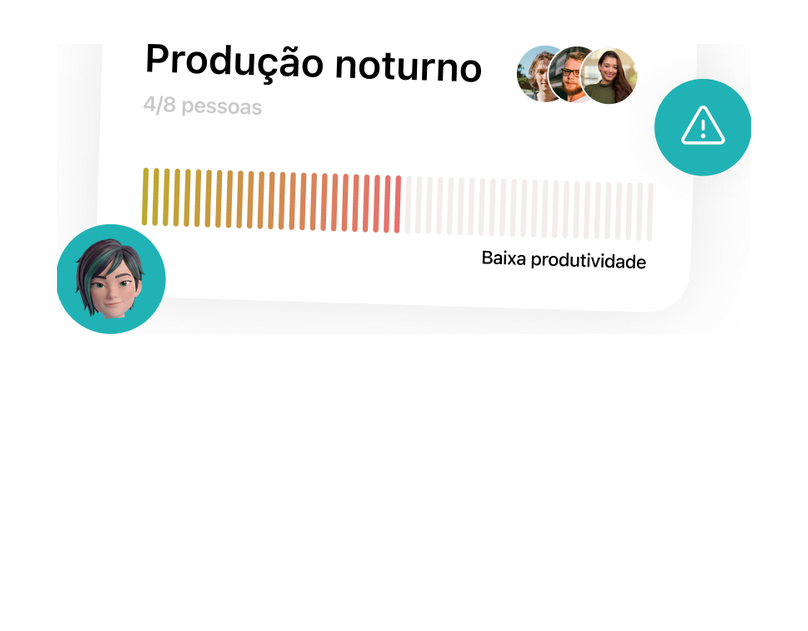
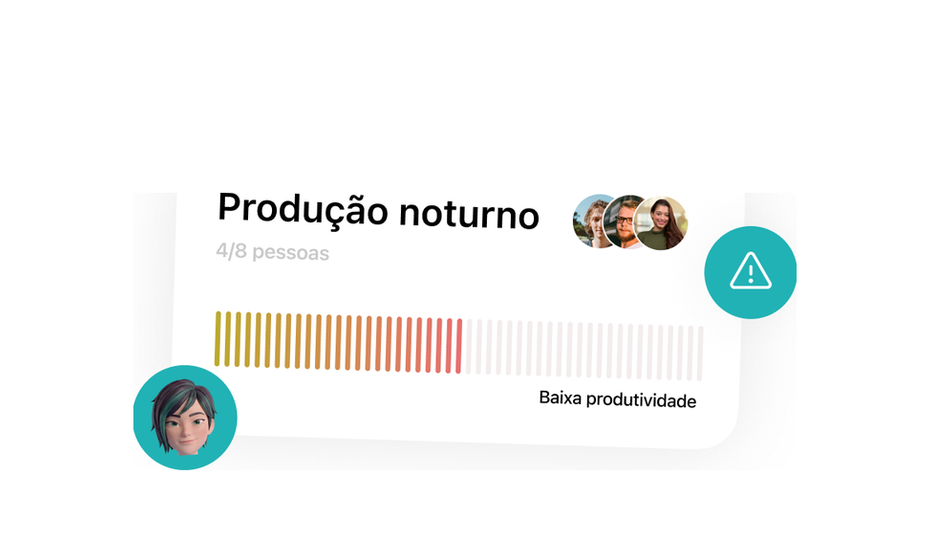
Highlights Opy/Pipo re-enquadrados + sombra do Fin colada aos pés
Os mockups dos cards de highlights do Opy e do Pipo tinham muito
espaço em branco chumbado e inconsistente na exportação (alguns só
ocupavam ~50% do frame), fazendo a imagem parecer pequena/estranha e a
legenda ficar solta no fundo do card. Re-montei os 6 PNGs num
enquadramento comum (mockup ~70% da largura, centralizado, ancorado
logo acima da legenda) e ajustei a legenda para ficar logo abaixo do
mockup em vez de empurrada pro rodapé.

Também aproxima a sombra do personagem do Fin dos pés (a PNG tem ~12%
de padding transparente embaixo).

diff --git a/src/components/OpyHighlights/OpyHighlights.module.css b/src/components/OpyHighlights/OpyHighlights.module.css
@@ -74,10 +74,12 @@
   border-radius: 16px 16px 0 0;
 }
 
-/* Caption is real text, bottom-aligned like in the design */
+/* Caption sits right under the mockup (the gap to the mockup is baked into the
+   image's bottom margin). Any card-height slack falls below it so the white card
+   backgrounds still align. */
 .caption {
-  margin-top: auto;
-  padding: 4px 32px 40px;
+  margin-top: 0;
+  padding: 4px 40px 40px;
   text-align: center;
   font-size: 20px;
   font-weight: 500;

diff --git a/src/components/PipoHighlights/PipoHighlights.module.css b/src/components/PipoHighlights/PipoHighlights.module.css
@@ -74,10 +74,12 @@
   border-radius: 16px 16px 0 0;
 }
 
-/* Caption is real text, bottom-aligned like in the design */
+/* Caption sits right under the mockup (the gap to the mockup is baked into the
+   image's bottom margin). Any card-height slack falls below it so the white card
+   backgrounds still align. */
 .caption {
-  margin-top: auto;
-  padding: 4px 32px 40px;
+  margin-top: 0;
+  padding: 4px 40px 40px;
   text-align: center;
   font-size: 20px;
   font-weight: 500;

diff --git a/src/components/FinHero/FinHero.module.css b/src/components/FinHero/FinHero.module.css
@@ -89,7 +89,7 @@
 .characterShadow {
   position: absolute;
   left: 95.5%;
-  top: 121%;
+  top: 109%;
   width: 26%;
   aspect-ratio: 262.5 / 143.3;
   transform: translate(-50%, -50%) rotate(-11deg);
